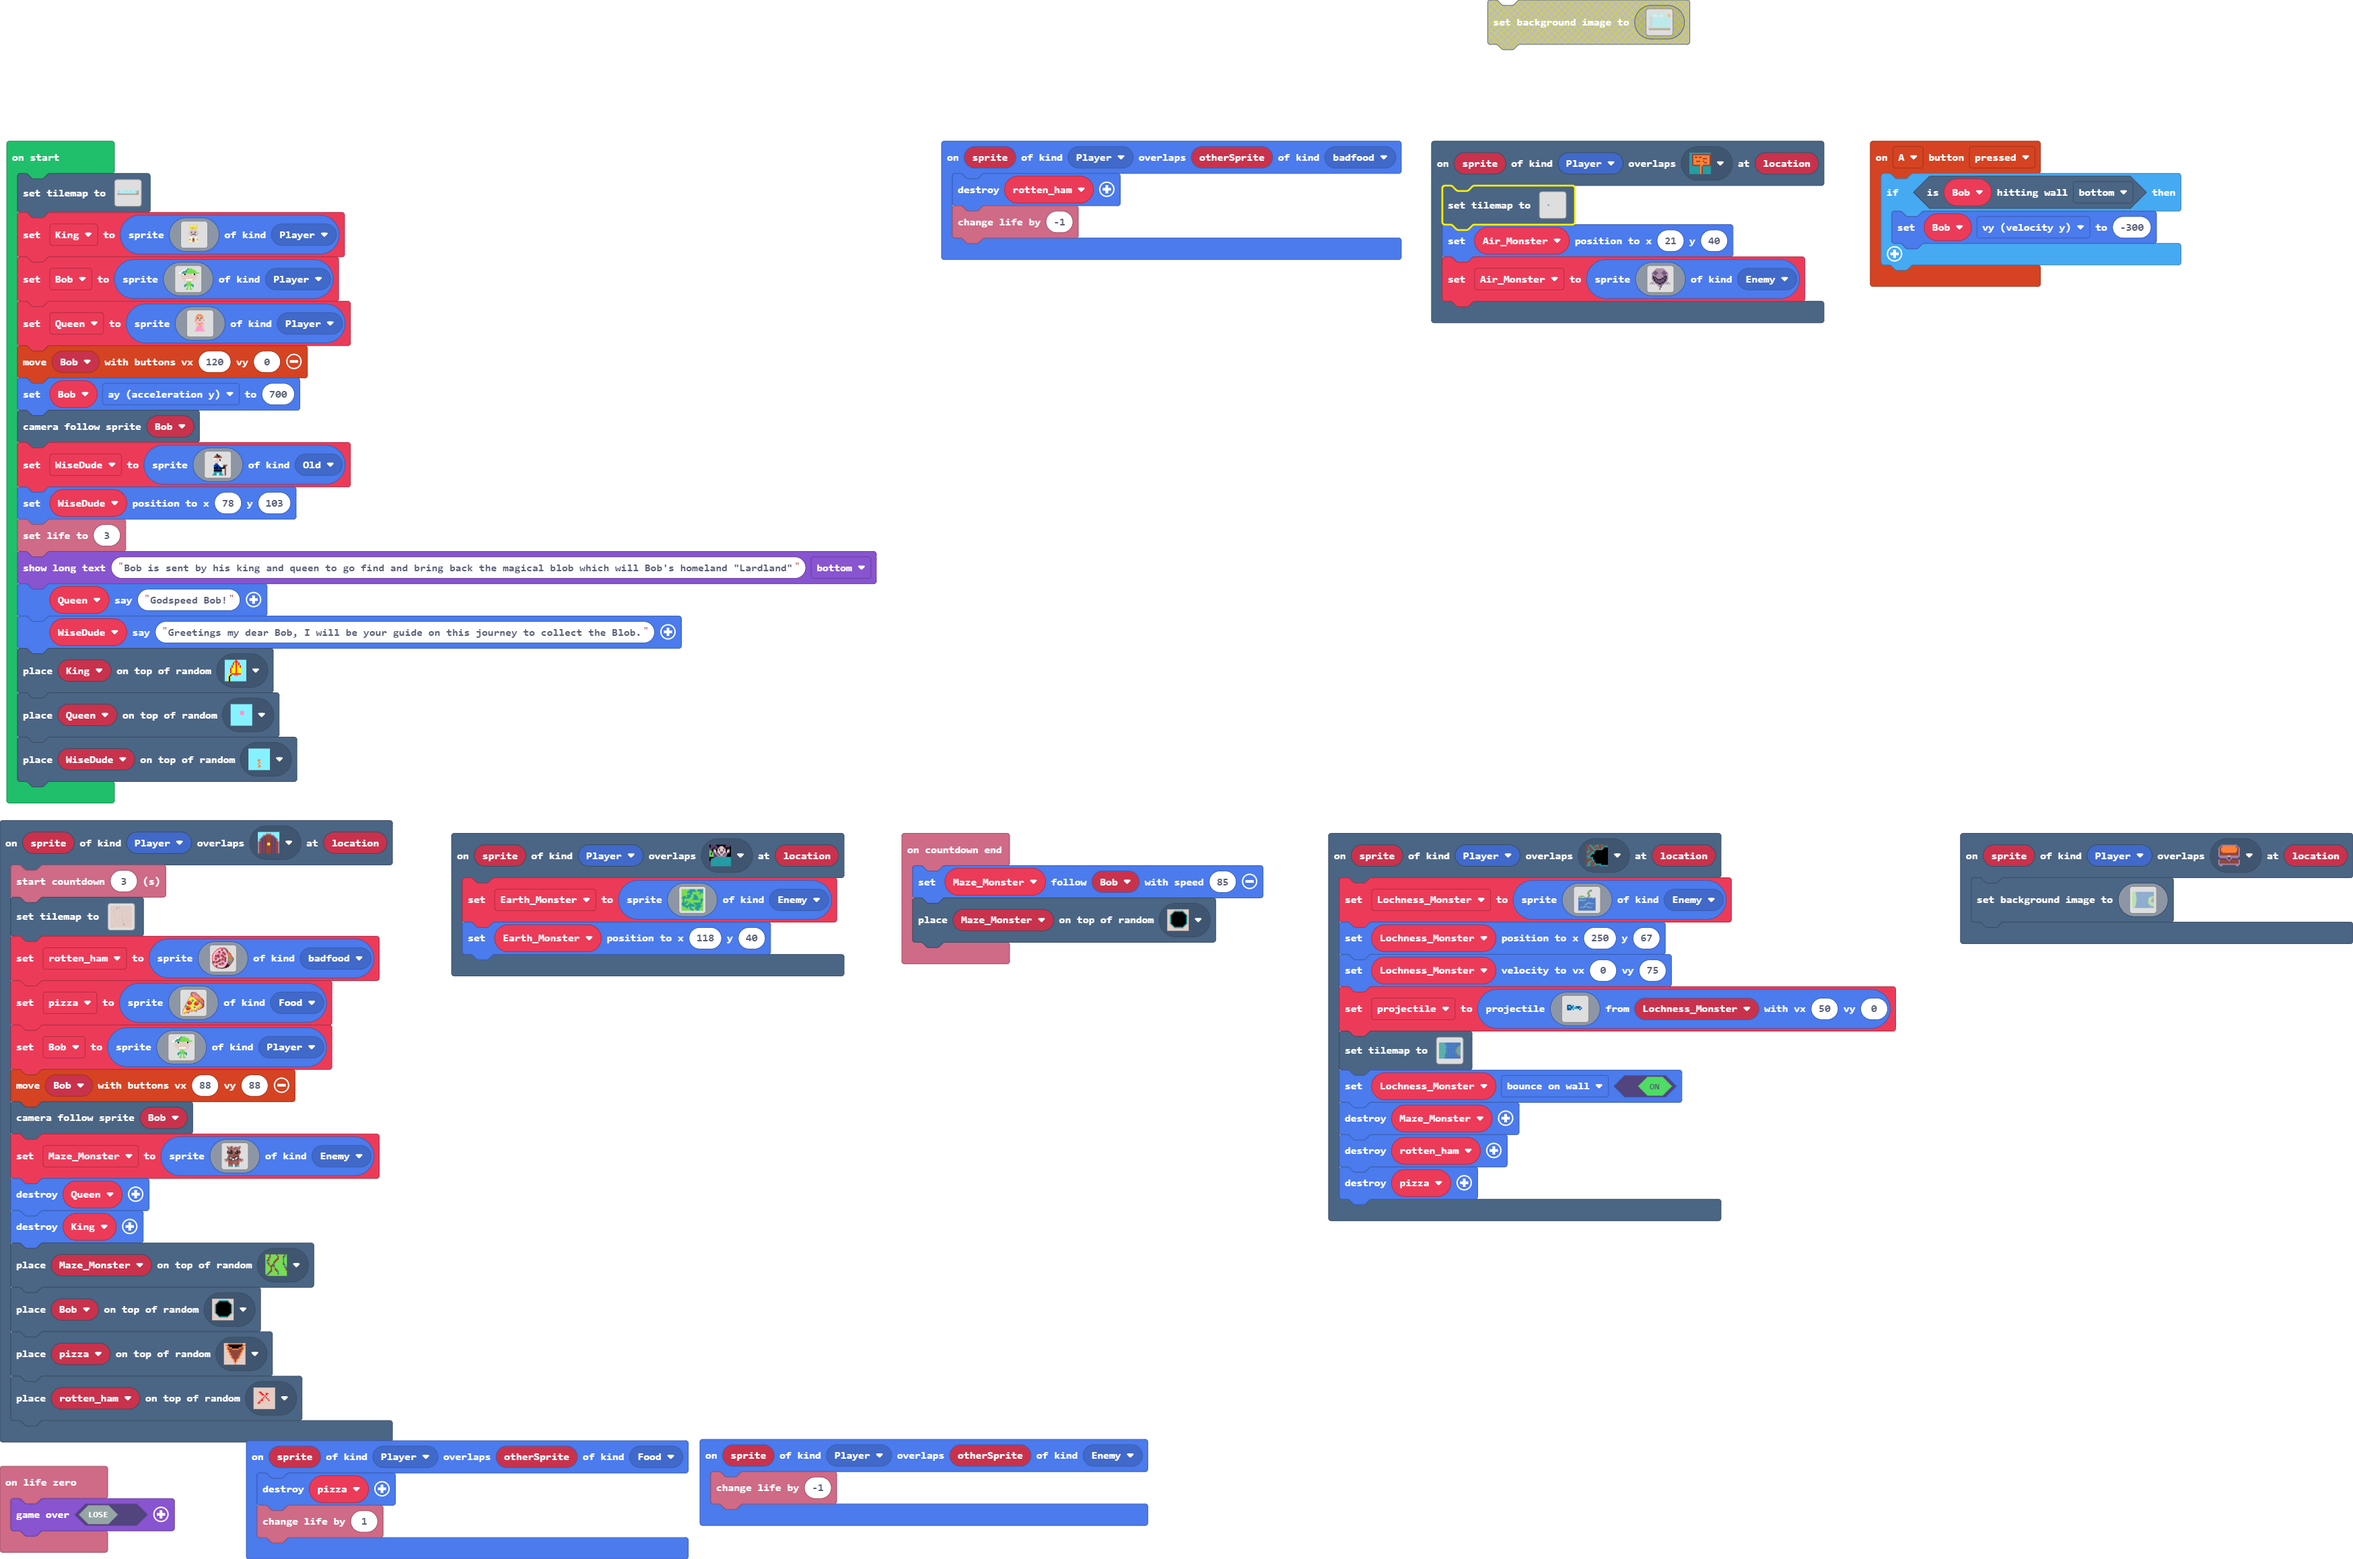
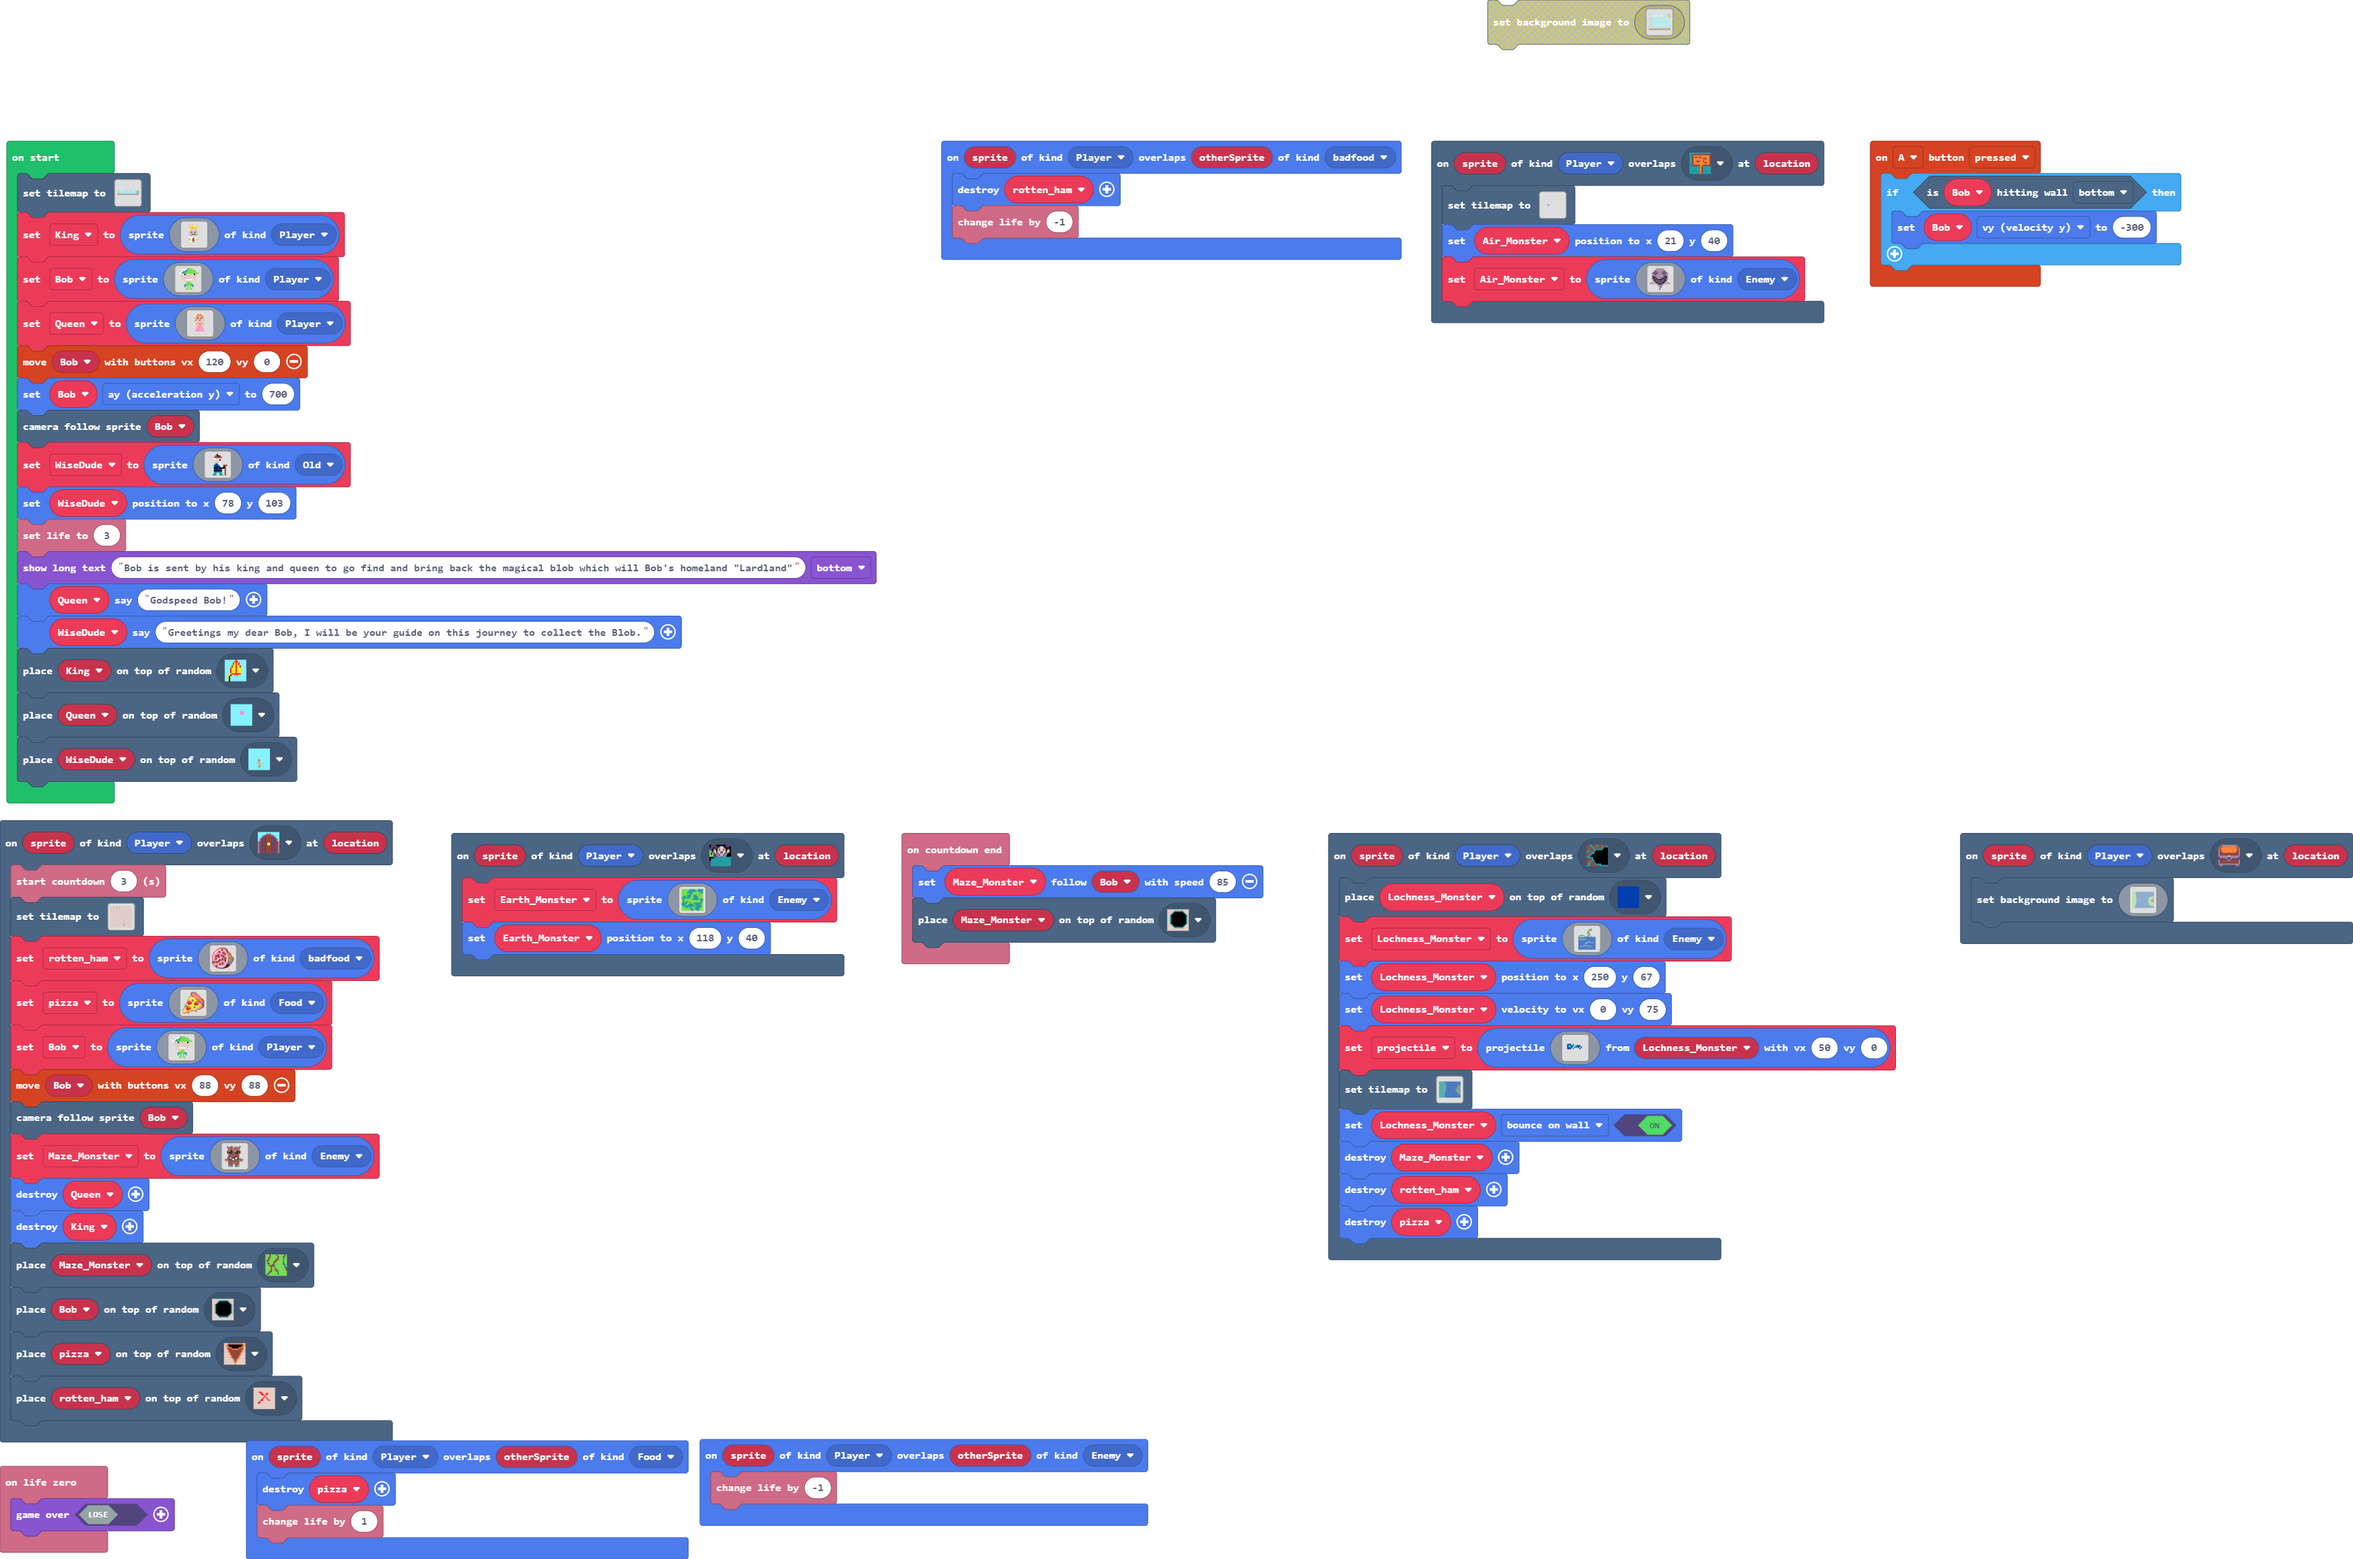
Update main.blocks, main.ts, tilemap.g.jres, tilemap.g.ts

Changed region(s): [[0.5612, 0.5593, 0.8106, 0.8079]]

diff --git a/main.ts b/main.ts
@@ -250,6 +250,7 @@ info.onCountdownEnd(function () {
     tiles.placeOnRandomTile(Maze_Monster, myTiles.tile18)
 })
 scene.onOverlapTile(SpriteKind.Player, myTiles.tile17, function (sprite, location) {
+    tiles.placeOnRandomTile(Lochness_Monster, myTiles.tile46)
     Lochness_Monster = sprites.create(img`
         ........................................
         ........................................
@@ -322,7 +323,7 @@ scene.onOverlapTile(SpriteKind.Player, myTiles.tile17, function (sprite, locatio
         . . . . . . . . . . . . . . . . 
         . . . . . . . . . . . . . . . . 
         `, Lochness_Monster, 50, 0)
[2 lines of base64/hex data omitted]
         ........................................
         ........................................
         ........................................
@@ -353,7 +354,7 @@ scene.onOverlapTile(SpriteKind.Player, myTiles.tile17, function (sprite, locatio
         ........................................
         ........................................
         ........................................
-        `, [myTiles.transparency16,sprites.castle.tileDarkGrass3,myTiles.tile22,myTiles.tile23,myTiles.tile32,myTiles.tile33,myTiles.tile34,sprites.castle.tileDarkGrass1,myTiles.tile35,myTiles.tile36,myTiles.tile37,myTiles.tile38,myTiles.tile39,myTiles.tile40,myTiles.tile41,myTiles.tile42], TileScale.Sixteen))
+        `, [myTiles.transparency16,sprites.castle.tileDarkGrass3,myTiles.tile22,myTiles.tile23,myTiles.tile32,myTiles.tile33,myTiles.tile34,sprites.castle.tileDarkGrass1,myTiles.tile35,myTiles.tile36,myTiles.tile37,myTiles.tile38,myTiles.tile39,myTiles.tile40,myTiles.tile41,myTiles.tile42,myTiles.tile46], TileScale.Sixteen))
     Lochness_Monster.setFlag(SpriteFlag.BounceOnWall, true)
     Maze_Monster.destroy()
     rotten_ham.destroy()

diff --git a/tilemap.g.ts b/tilemap.g.ts
@@ -92,6 +92,8 @@ namespace myTiles {
     export const tile45 = image.ofBuffer(hex``);
     //% fixedInstance jres blockIdentity=images._tile
     export const tile16 = image.ofBuffer(hex``);
+    //% fixedInstance jres blockIdentity=images._tile
+    export const tile46 = image.ofBuffer(hex``);
 
 }
 // Auto-generated code. Do not edit.
